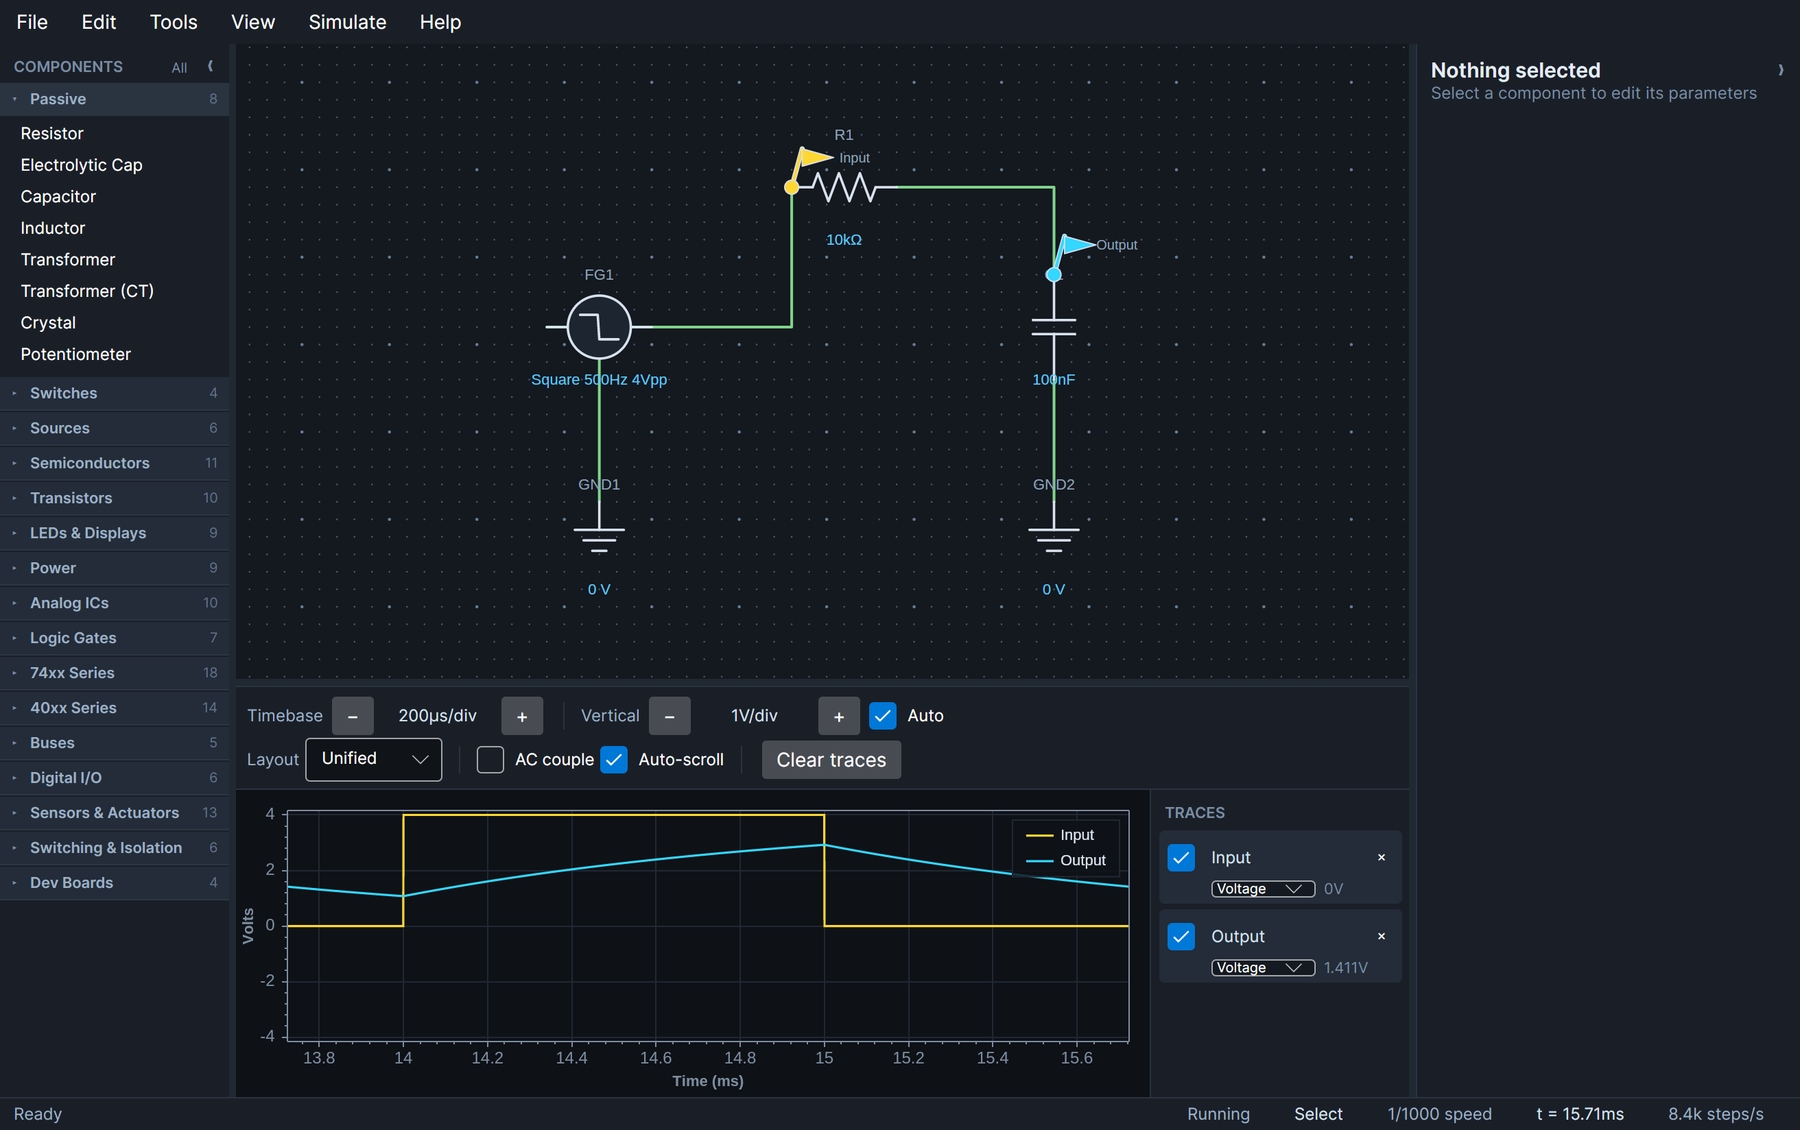
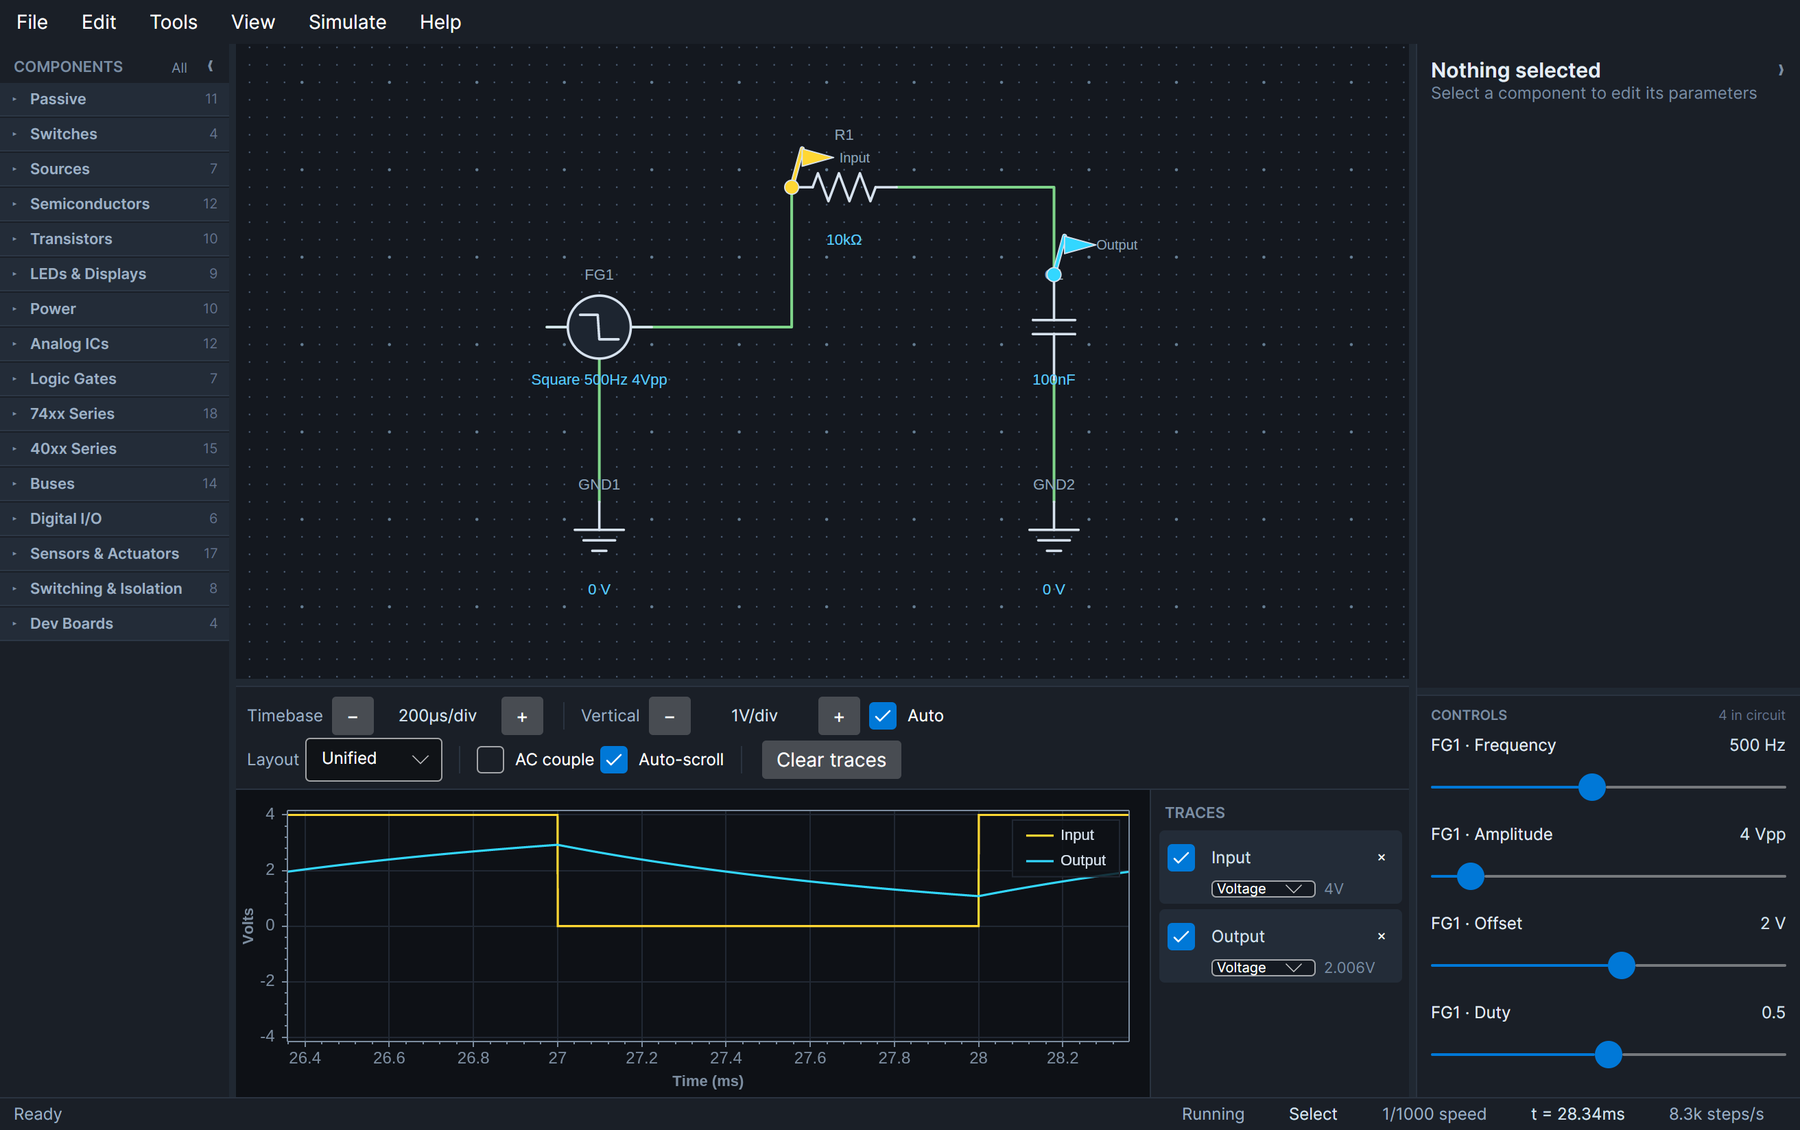
Open one group at a time in the palette and the example browser
Both lists start closed, and opening a group closes whichever was open.
Sixteen palette categories and twelve example groups opened independently
stack up past the height of the panel, so reaching the fifth means scrolling
past the four you have finished with; kept to one, every heading and its
count stays in view.

One Accordion coordinator does it for both, over an IExpandableGroup the two
group view models now implement. Bulk changes go through SetAll and are
exempt from the rule: the palette's All button is the way out of it for
anyone who would rather scroll one long list, and collapsing fifteen of the
sixteen it just opened would be an odd way to answer the button.

A search is the other exemption, and has to be — a match folded away inside
a closed group is the same as no match at all. That turned out to need more
than a flag: after a search everything is open, so which group the person
had opened cannot be read off the list any more. It is remembered separately
and restored when the search clears, which a test caught by expecting both
that clearing a search closes everything and that the group you left open
comes back.

docs/images/02-palette.png regenerated, since its caption said the Passive
group was open. The old one also predated eight components' worth of
additions — Passive read 8 against 11, Buses 5 against 14.

diff --git a/src/Cirq.UI/ViewModels/ExampleBrowserViewModel.cs b/src/Cirq.UI/ViewModels/ExampleBrowserViewModel.cs
@@ -27,7 +27,7 @@ public sealed partial class ExampleRowViewModel : ObservableObject
 }
 
 /// <summary>One group in the browser, with the open/closed state the dialog keeps for it.</summary>
-public sealed partial class ExampleGroupViewModel : ObservableObject
+public sealed partial class ExampleGroupViewModel : ObservableObject, IExpandableGroup
 {
     public ExampleGroupViewModel(string name, IReadOnlyList<ExampleRowViewModel> items, bool isExpanded)
     {
@@ -144,17 +144,40 @@ public sealed partial class ExampleBrowserViewModel : ObservableObject
         RequestClose?.Invoke(this, EventArgs.Empty);
     }
 
+    /// <summary>Keeps one group open at a time.</summary>
+    private readonly Accordion _accordion = new();
+
+    /// <summary>
+    /// The group the person had open, remembered across searches. It cannot be read off the list
+    /// while a search is running, because a search opens all of them and that is the search's
+    /// doing rather than theirs.
+    /// </summary>
+    private string? _openGroup;
+
+    private bool _wasSearching;
+
     partial void OnSearchChanged(string value) => Rebuild();
 
     /// <summary>
-    /// Rebuilds the visible groups for the current search. A search opens every group that still
-    /// has something in it, because leaving a match folded away inside a closed group is the same
-    /// as not matching at all.
+    /// Rebuilds the visible groups for the current search.
+    /// <para>
+    /// Groups open one at a time, and start closed, so the twelve headings are all on screen when
+    /// the dialog opens rather than one group filling it. A <b>search is the exception</b>: it
+    /// opens every group that still has something in it, because leaving a match folded away
+    /// inside a closed group is the same as not matching at all. Searching is filtering rather
+    /// than opening a group, so the one-at-a-time rule does not apply to it — and clearing the
+    /// search closes everything again.
+    /// </para>
     /// </summary>
     private void Rebuild()
     {
-        var previous = Groups.ToDictionary(g => g.Name, g => g.IsExpanded);
         var term = Search.Trim();
+        var searching = term.Length > 0;
+
+        // Only believe what is on screen when the person put it there.
+        if (!_wasSearching) _openGroup = Groups.FirstOrDefault(g => g.IsExpanded)?.Name;
+
+        _wasSearching = searching;
 
         Groups.Clear();
 
@@ -171,10 +194,15 @@ public sealed partial class ExampleBrowserViewModel : ObservableObject
             IReadOnlyList<ExampleRowViewModel> items =
                 [.. matching.Select(e => new ExampleRowViewModel(e with { Category = category.Name }))];
 
-            var expanded = term.Length > 0 || !previous.TryGetValue(category.Name, out var was) || was;
+            // Open while searching; otherwise only the one that was open, which is none of them
+            // until somebody opens one.
+            var expanded = searching || category.Name == _openGroup;
 
             Groups.Add(new ExampleGroupViewModel(category.Name, items, expanded));
         }
+
+        // The groups are new objects each time round, so the accordion is pointed at the new ones.
+        _accordion.Track(Groups);
 
         // Keep the selection if it survived the search; otherwise take the first thing on offer,
         // so the description pane is never blank next to a list that has entries in it.

diff --git a/src/Cirq.UI/ViewModels/Accordion.cs b/src/Cirq.UI/ViewModels/Accordion.cs
@@ -1,0 +1,83 @@
+using System.ComponentModel;
+
+namespace Cirq.UI.ViewModels;
+
+/// <summary>A group in a list that opens and closes.</summary>
+public interface IExpandableGroup : INotifyPropertyChanged
+{
+    /// <summary>Whether the group's contents are showing.</summary>
+    bool IsExpanded { get; set; }
+}
+
+/// <summary>
+/// Keeps at most one group in a list open at a time.
+/// <para>
+/// The palette holds sixteen groups and the example browser twelve. Opened independently they
+/// stack up: four open groups is more than a sidebar's height, so finding the fifth means
+/// scrolling past the four you already finished with. Closing the last one as the next opens keeps
+/// every heading on screen, which is what makes a long list browsable rather than a thing to
+/// scroll through.
+/// </para>
+/// <para>
+/// Bulk changes — an expand-all button, or a search opening everything it matched — go through
+/// <see cref="SetAll"/> and are exempt. Those are not somebody opening a group, and collapsing
+/// fifteen of the sixteen a button just opened would be an odd way to answer the button.
+/// </para>
+/// </summary>
+public sealed class Accordion
+{
+    private readonly List<IExpandableGroup> _groups = [];
+
+    private bool _settling;
+
+    /// <summary>
+    /// Watches a set of groups, letting go of any it was watching before. The example browser
+    /// rebuilds its groups on every keystroke, so this is called far more often than once.
+    /// </summary>
+    public void Track(IEnumerable<IExpandableGroup> groups)
+    {
+        foreach (var group in _groups) group.PropertyChanged -= OnGroupChanged;
+
+        _groups.Clear();
+        _groups.AddRange(groups);
+
+        foreach (var group in _groups) group.PropertyChanged += OnGroupChanged;
+    }
+
+    /// <summary>Opens or closes every group at once, without the one-at-a-time rule applying.</summary>
+    public void SetAll(bool expanded)
+    {
+        _settling = true;
+
+        try
+        {
+            foreach (var group in _groups) group.IsExpanded = expanded;
+        }
+        finally
+        {
+            _settling = false;
+        }
+    }
+
+    /// <summary>Closes every group. What both lists start out as.</summary>
+    public void CollapseAll() => SetAll(false);
+
+    private void OnGroupChanged(object? sender, PropertyChangedEventArgs e)
+    {
+        if (_settling || e.PropertyName != nameof(IExpandableGroup.IsExpanded)) return;
+        if (sender is not IExpandableGroup opened || !opened.IsExpanded) return;
+
+        // Re-entrant by construction: closing the others raises this again for each of them.
+        _settling = true;
+
+        try
+        {
+            foreach (var group in _groups)
+                if (!ReferenceEquals(group, opened)) group.IsExpanded = false;
+        }
+        finally
+        {
+            _settling = false;
+        }
+    }
+}

diff --git a/tests/Cirq.UI.Tests/ExampleBrowserTests.cs b/tests/Cirq.UI.Tests/ExampleBrowserTests.cs
@@ -64,6 +64,78 @@ public class ExampleBrowserTests
         Assert.True(browser.Groups[0].Items[0].IsSelected);
     }
 
+    /// <summary>
+    /// Twelve groups' worth of examples will not fit on one screen, so none of them opens until
+    /// somebody asks — which puts every heading in view instead of one group's contents.
+    /// </summary>
+    [Fact]
+    public void ItOpensWithEveryGroupClosed()
+    {
+        var browser = new ExampleBrowserViewModel();
+
+        Assert.All(browser.Groups, g => Assert.False(g.IsExpanded));
+    }
+
+    /// <summary>And opening one closes the last, so the headings never scroll away.</summary>
+    [Fact]
+    public void OpeningAGroupClosesTheOneThatWasOpen()
+    {
+        var browser = new ExampleBrowserViewModel();
+
+        browser.Groups[1].IsExpanded = true;
+        Assert.Single(browser.Groups, g => g.IsExpanded);
+
+        browser.Groups[4].IsExpanded = true;
+
+        Assert.False(browser.Groups[1].IsExpanded);
+        Assert.True(browser.Groups[4].IsExpanded);
+        Assert.Single(browser.Groups, g => g.IsExpanded);
+    }
+
+    /// <summary>
+    /// A search is the exception, and has to be: a match folded away inside a closed group is the
+    /// same as no match at all.
+    /// </summary>
+    [Fact]
+    public void ASearchOpensEveryGroupItMatched()
+    {
+        var browser = new ExampleBrowserViewModel { Search = "e" };
+
+        Assert.True(browser.Groups.Count > 1, "this search was meant to match several groups");
+        Assert.All(browser.Groups, g => Assert.True(g.IsExpanded));
+    }
+
+    /// <summary>And clearing it closes them again rather than leaving twelve groups open.</summary>
+    [Fact]
+    public void AndClearingItClosesThemAgain()
+    {
+        var browser = new ExampleBrowserViewModel { Search = "e" };
+
+        browser.Search = string.Empty;
+
+        Assert.All(browser.Groups, g => Assert.False(g.IsExpanded));
+    }
+
+    /// <summary>
+    /// The group left open survives a search and comes back with it, because the search rebuilds
+    /// the list from scratch and the state is matched up by name.
+    /// </summary>
+    [Fact]
+    public void TheOpenGroupIsStillOpenAfterASearchIsCleared()
+    {
+        var browser = new ExampleBrowserViewModel();
+        var name = browser.Groups[3].Name;
+
+        browser.Groups[3].IsExpanded = true;
+
+        browser.Search = "zzzz";
+        browser.Search = string.Empty;
+
+        var group = browser.Groups.Single(g => g.Name == name);
+        Assert.True(group.IsExpanded);
+        Assert.Single(browser.Groups, g => g.IsExpanded);
+    }
+
     [Fact]
     public void SearchingNarrowsItToWhatMatches()
     {

diff --git a/src/Cirq.UI/ViewModels/MainWindowViewModel.cs b/src/Cirq.UI/ViewModels/MainWindowViewModel.cs
@@ -20,6 +20,8 @@ public sealed partial class MainWindowViewModel : ObservableObject, IDisposable
         Scope = new ScopeViewModel(Circuit);
         Inspector = new InspectorViewModel();
 
+        _paletteAccordion.Track(Palette);
+
         Scope.SamplingChanged += (_, _) => ApplyScopeSampling();
         Inspector.ParameterChanged += (_, structural) =>
         {
@@ -69,11 +71,14 @@ public sealed partial class MainWindowViewModel : ObservableObject, IDisposable
     public ControlPanelViewModel ControlPanel { get; }
 
     /// <summary>
-    /// Palette groups, each collapsible. Only the first opens on startup so the sidebar stays
+    /// Palette groups, each collapsible. They all start closed so every heading is on screen at
     /// short; the rest are one click away.
     /// </summary>
     public IReadOnlyList<PaletteCategoryViewModel> Palette { get; } =
-        [.. ComponentCatalog.Categories.Select((c, i) => new PaletteCategoryViewModel(c, isExpanded: i == 0))];
+        [.. ComponentCatalog.Categories.Select(c => new PaletteCategoryViewModel(c, isExpanded: false))];
+
+    /// <summary>Keeps one palette group open at a time.</summary>
+    private readonly Accordion _paletteAccordion = new();
 
 
     [ObservableProperty]
@@ -885,13 +890,12 @@ public sealed partial class MainWindowViewModel : ObservableObject, IDisposable
     [RelayCommand]
     private void ChoosePaletteItem(PaletteItem? item) => PendingItem = item;
 
-    /// <summary>Opens every palette group, or closes them all when they are already open.</summary>
+    /// <summary>
+    /// Opens every palette group, or closes them all when they are already open — the way out of
+    /// the one-at-a-time rule for anyone who would rather scroll one long list.
+    /// </summary>
     [RelayCommand]
-    private void TogglePaletteGroups()
-    {
-        var expand = Palette.Any(c => !c.IsExpanded);
-        foreach (var category in Palette) category.IsExpanded = expand;
-    }
+    private void TogglePaletteGroups() => _paletteAccordion.SetAll(Palette.Any(c => !c.IsExpanded));
 
     [RelayCommand]
     private void SetIntegration(string method)

diff --git a/tests/Cirq.UI.Tests/PaletteLayoutTests.cs b/tests/Cirq.UI.Tests/PaletteLayoutTests.cs
@@ -9,13 +9,43 @@ namespace Cirq.UI.Tests;
 public class PaletteLayoutTests
 {
     [Fact]
-    public void PaletteIsGroupedWithOnlyTheFirstCategoryOpen()
+    public void PaletteStartsWithEveryCategoryClosed()
     {
         using var vm = new MainWindowViewModel();
 
-        Assert.Equal(ComponentCatalog.Categories.Count, vm.Palette.Count);
-        Assert.True(vm.Palette[0].IsExpanded);
-        Assert.All(vm.Palette.Skip(1), c => Assert.False(c.IsExpanded));
+        // All sixteen headings on screen at once, rather than one group's worth of parts and the
+        // rest below the fold.
+        Assert.All(vm.Palette, c => Assert.False(c.IsExpanded));
+    }
+
+    /// <summary>
+    /// Opening one closes the last, so the headings stay on screen however many you go through.
+    /// </summary>
+    [Fact]
+    public void OpeningACategoryClosesTheOneThatWasOpen()
+    {
+        using var vm = new MainWindowViewModel();
+
+        vm.Palette[2].IsExpanded = true;
+        Assert.Single(vm.Palette, c => c.IsExpanded);
+
+        vm.Palette[5].IsExpanded = true;
+
+        Assert.False(vm.Palette[2].IsExpanded);
+        Assert.True(vm.Palette[5].IsExpanded);
+        Assert.Single(vm.Palette, c => c.IsExpanded);
+    }
+
+    /// <summary>And closing the open one leaves them all closed rather than opening another.</summary>
+    [Fact]
+    public void ClosingTheOpenCategoryLeavesThemAllClosed()
+    {
+        using var vm = new MainWindowViewModel();
+
+        vm.Palette[1].IsExpanded = true;
+        vm.Palette[1].IsExpanded = false;
+
+        Assert.All(vm.Palette, c => Assert.False(c.IsExpanded));
     }
 
     [Fact]

diff --git a/src/Cirq.UI/ViewModels/ComponentCatalog.cs b/src/Cirq.UI/ViewModels/ComponentCatalog.cs
@@ -25,7 +25,7 @@ public sealed record PaletteCategory(string Name, IReadOnlyList<PaletteItem> Ite
 /// A palette category together with its expanded state. The state lives here rather than on the
 /// shared <see cref="PaletteCategory"/> records so two windows do not fight over it.
 /// </summary>
-public sealed partial class PaletteCategoryViewModel : ObservableObject
+public sealed partial class PaletteCategoryViewModel : ObservableObject, IExpandableGroup
 {
     public PaletteCategoryViewModel(PaletteCategory category, bool isExpanded)
     {

diff --git a/README.md b/README.md
@@ -32,7 +32,7 @@ Core ← Engine ← Components ← UI, which keeps the whole engine headless-tes
 
 ```bash
 dotnet run --project src/Cirq.UI     # the editor
-dotnet test                          # 1882 tests
+dotnet test                          # 1889 tests
 ```
 
 Targets .NET 10. The UI uses Avalonia 12 and ScottPlot 5.1; those two versions are pinned
@@ -247,7 +247,7 @@ Tests measure the solver against closed-form answers rather than recorded output
 | Export | Every format writes a file worth opening; a PNG at the size of the circuit and a raster scale that only multiplies pixels; a hand-written BMP header that agrees with its own pixel count; an SVG made of shapes rather than an embedded image; a PDF that starts and ends as one, with two pages when the traces get their own; framing that follows the circuit rather than the view; and a scope that clears the canvas being unable to wipe the schematic above it |
 | Files | Every component type round-trips with its parameters, pins, wires, waypoints and probes; a reloaded circuit solves to the same answer; damaged, unknown and newer-format files are handled without losing the open circuit |
 | Settings | Theme round-trips across a restart, corrupt and newer-format preference files fall back to defaults, opening the dialog writes nothing, choosing a theme saves immediately |
-| UI | Background transport, probe decimation, reflection-built inspector, dirty tracking, every example compiles, runs, saves and reopens |
+| UI | Background transport, probe decimation, reflection-built inspector, dirty tracking, every example compiles, runs, saves and reopens, and both grouped lists opening one group at a time — starting closed, the open one closing as the next opens, bulk toggles exempt, and a search opening everything it matched and restoring the open group when cleared |
 | Copy and paste | A duplicate carrying every parameter including the model on an op-amp and the input count on a gate, its own designator and identity, a clipboard that survives the original being edited or deleted, repeated pastes cascading rather than stacking, an undoable paste, and every one of the 164 palette parts surviving the round trip |
 | Box selection | A part caught only when wholly inside the box and not when clipped, captions excluded from the test, a group copying with the wires between its members and without the ones leaving it, the copy keeping its shape, two pastes giving two separately wired groups, and a copied divider solving to the same midpoint voltage as the original |
 | Example browser | Every example filed under exactly one group and no group left empty or enormous, the flattened list carrying the group each came from, opening with something already described, searching narrowing to what matches across name, description and group, a search opening whatever it matched, an empty result saying so, selecting one row unmarking the rest, and opening and cancelling each closing with and without a choice |

diff --git a/docs/USER_GUIDE.md b/docs/USER_GUIDE.md
@@ -64,7 +64,7 @@ at the window edge; click the rail to bring it back.
 
 ## Placing components
 
-![The component palette showing all sixteen categories with their counts — passive, switches, sources, semiconductors, transistors, LEDs and displays, power, analog ICs, logic gates, 74xx series, 40xx series, buses, digital I/O, sensors and actuators, switching and isolation, and dev boards — with the Passive group open](images/02-palette.png)
+![The component palette showing all sixteen categories with their counts — passive, switches, sources, semiconductors, transistors, LEDs and displays, power, analog ICs, logic gates, 74xx series, 40xx series, buses, digital I/O, sensors and actuators, switching and isolation, and dev boards — every one of them closed, so all sixteen headings fit on screen at once](images/02-palette.png)
 
 Click a palette entry, then click the canvas. The part lands where you click, snapped to the grid.
 
@@ -89,7 +89,13 @@ The palette holds **164 components in 16 categories**:
 | Switching & Isolation | 8 | Relay, fuses, optocouplers, ULN2003, H-bridge, **MOSFET gate driver** — see [below](#driving-a-mosfet-gate) |
 | Dev Boards | 4 | Raspberry Pi, Arduino Uno / Nano / Mega — see [below](#development-boards) |
 
-Click a category header to open or close it. **All** in the palette header toggles every group at
+Click a category header to open it — and whichever was open closes, so **one category is open at a
+time**. Four groups opened independently is already more than the sidebar is tall, and then
+reaching the fifth means scrolling past the ones you have finished with. Kept to one, every heading
+and its count stays in view and the palette is something to look down rather than scroll through.
+All of them start closed.
+
+**All** in the palette header is the way out of that, and toggles every group at
 once — useful when you are hunting for a part and do not remember which group it is in.
 
 Switches, push buttons and logic toggles are operated by **double-clicking them on the canvas**,
